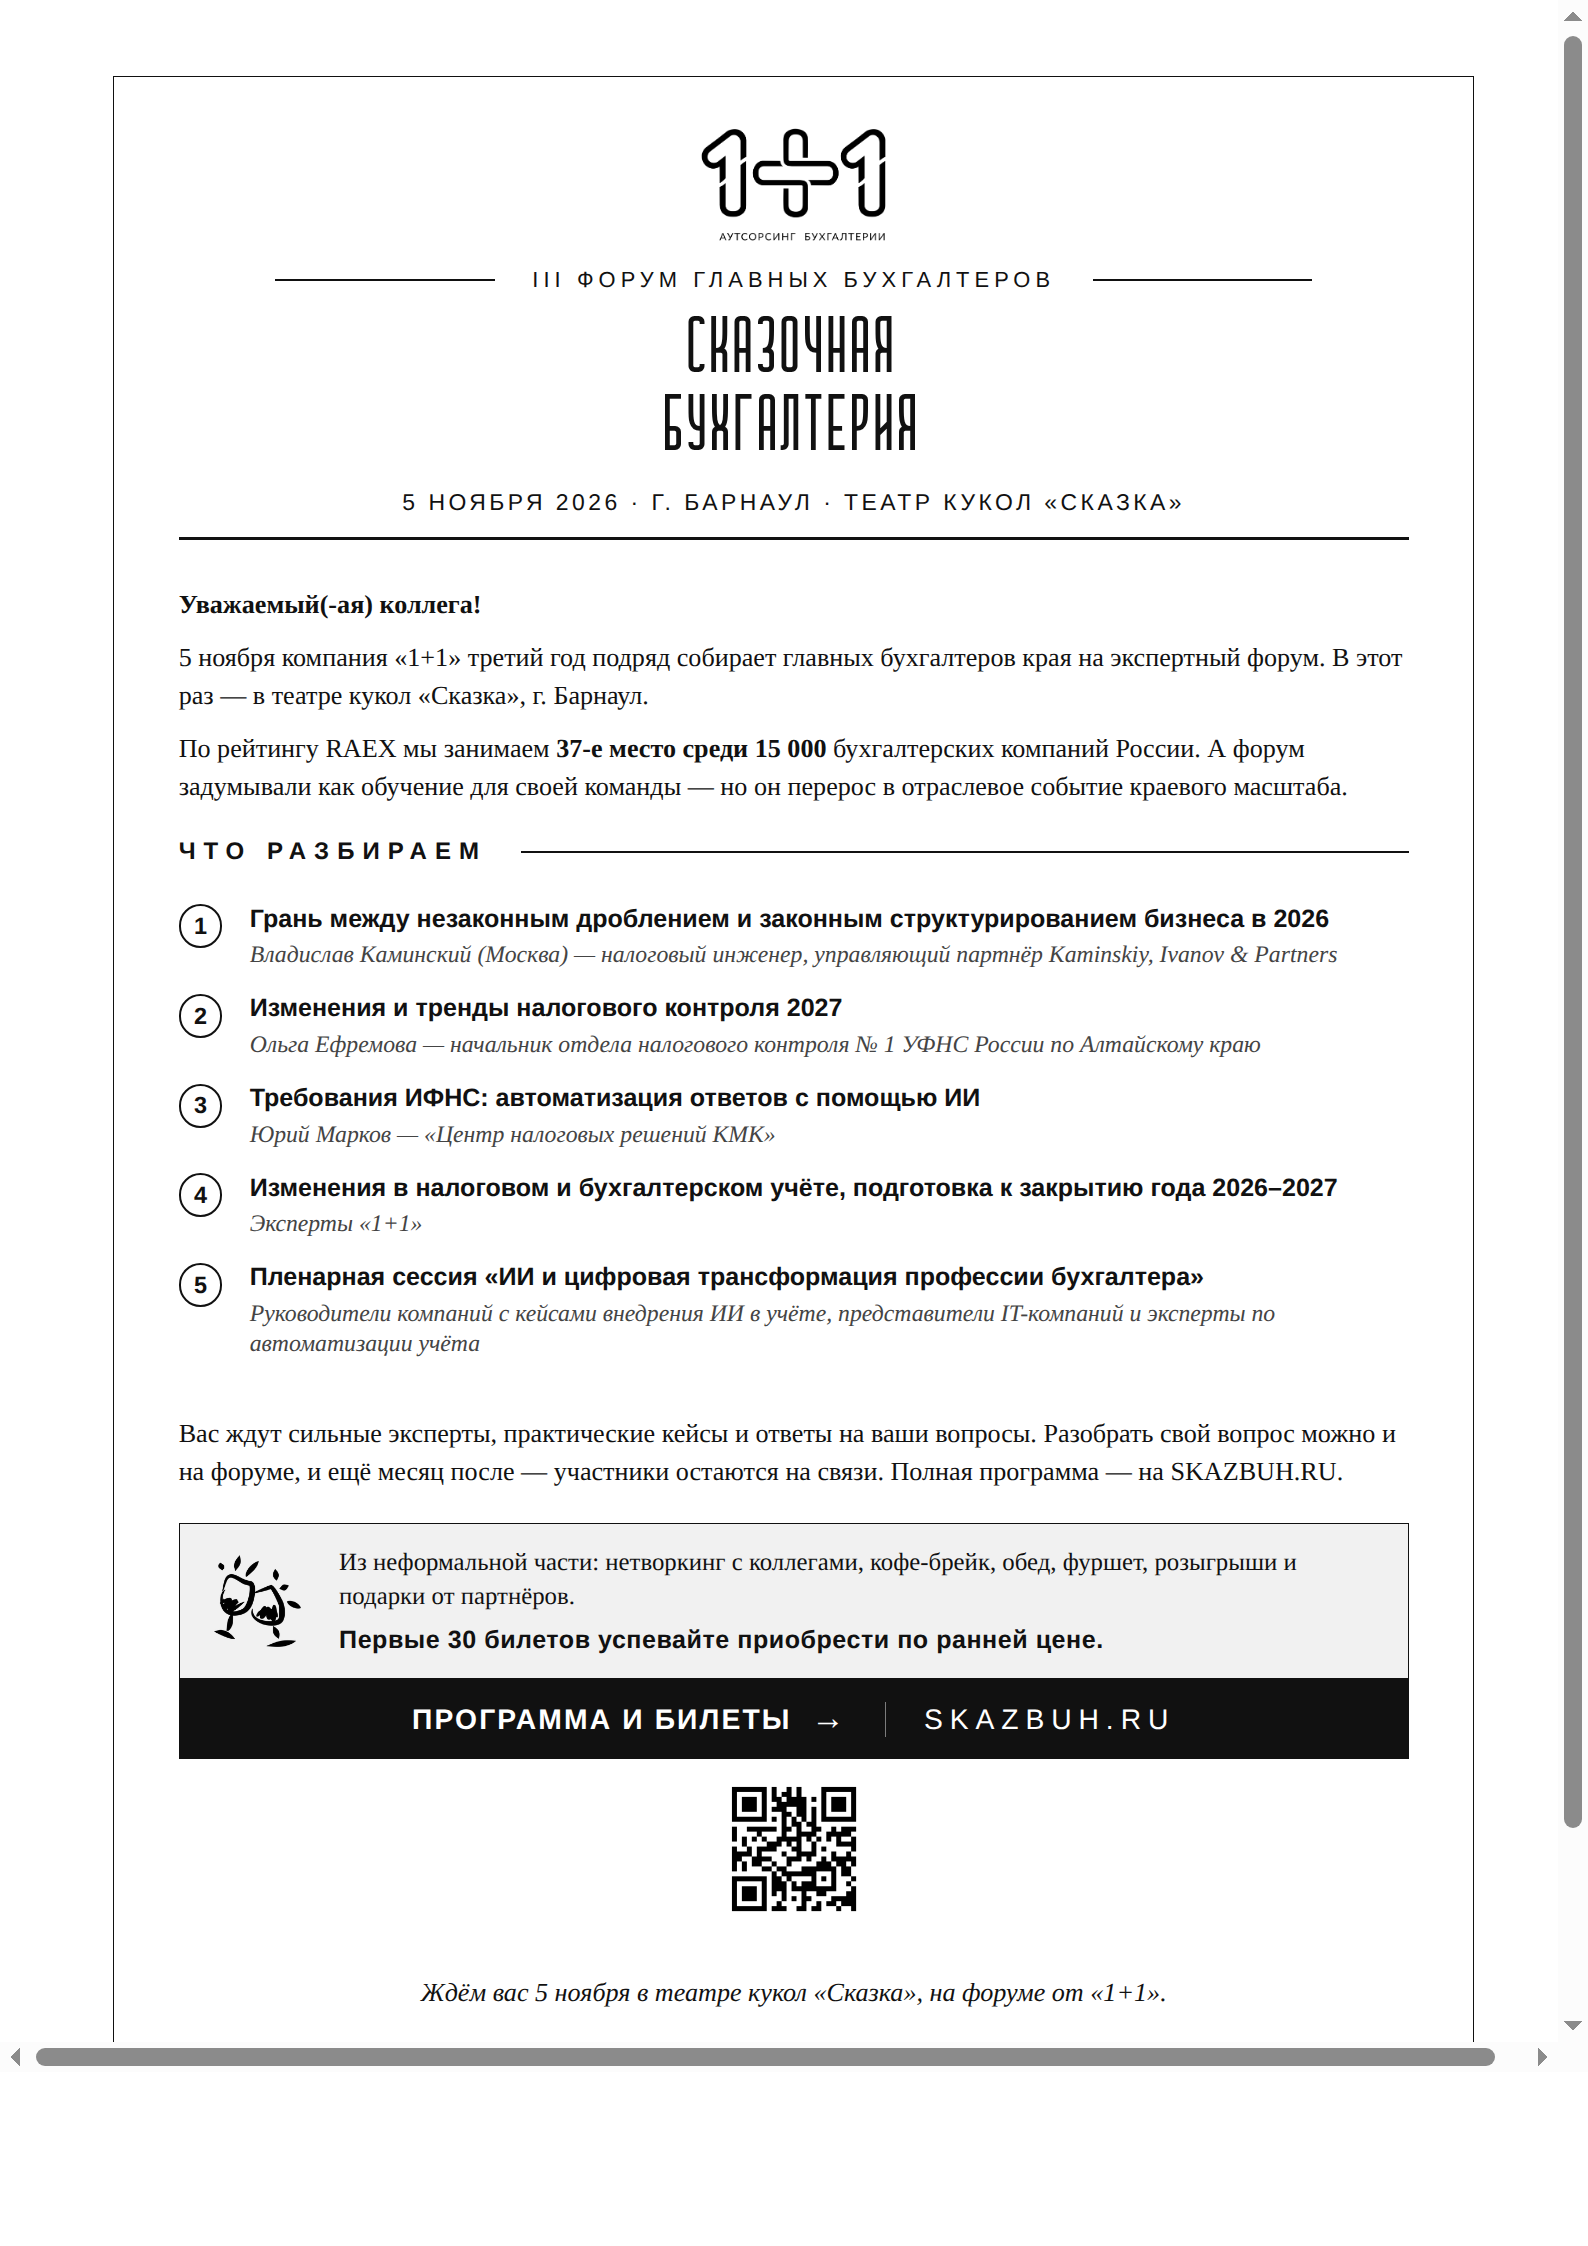
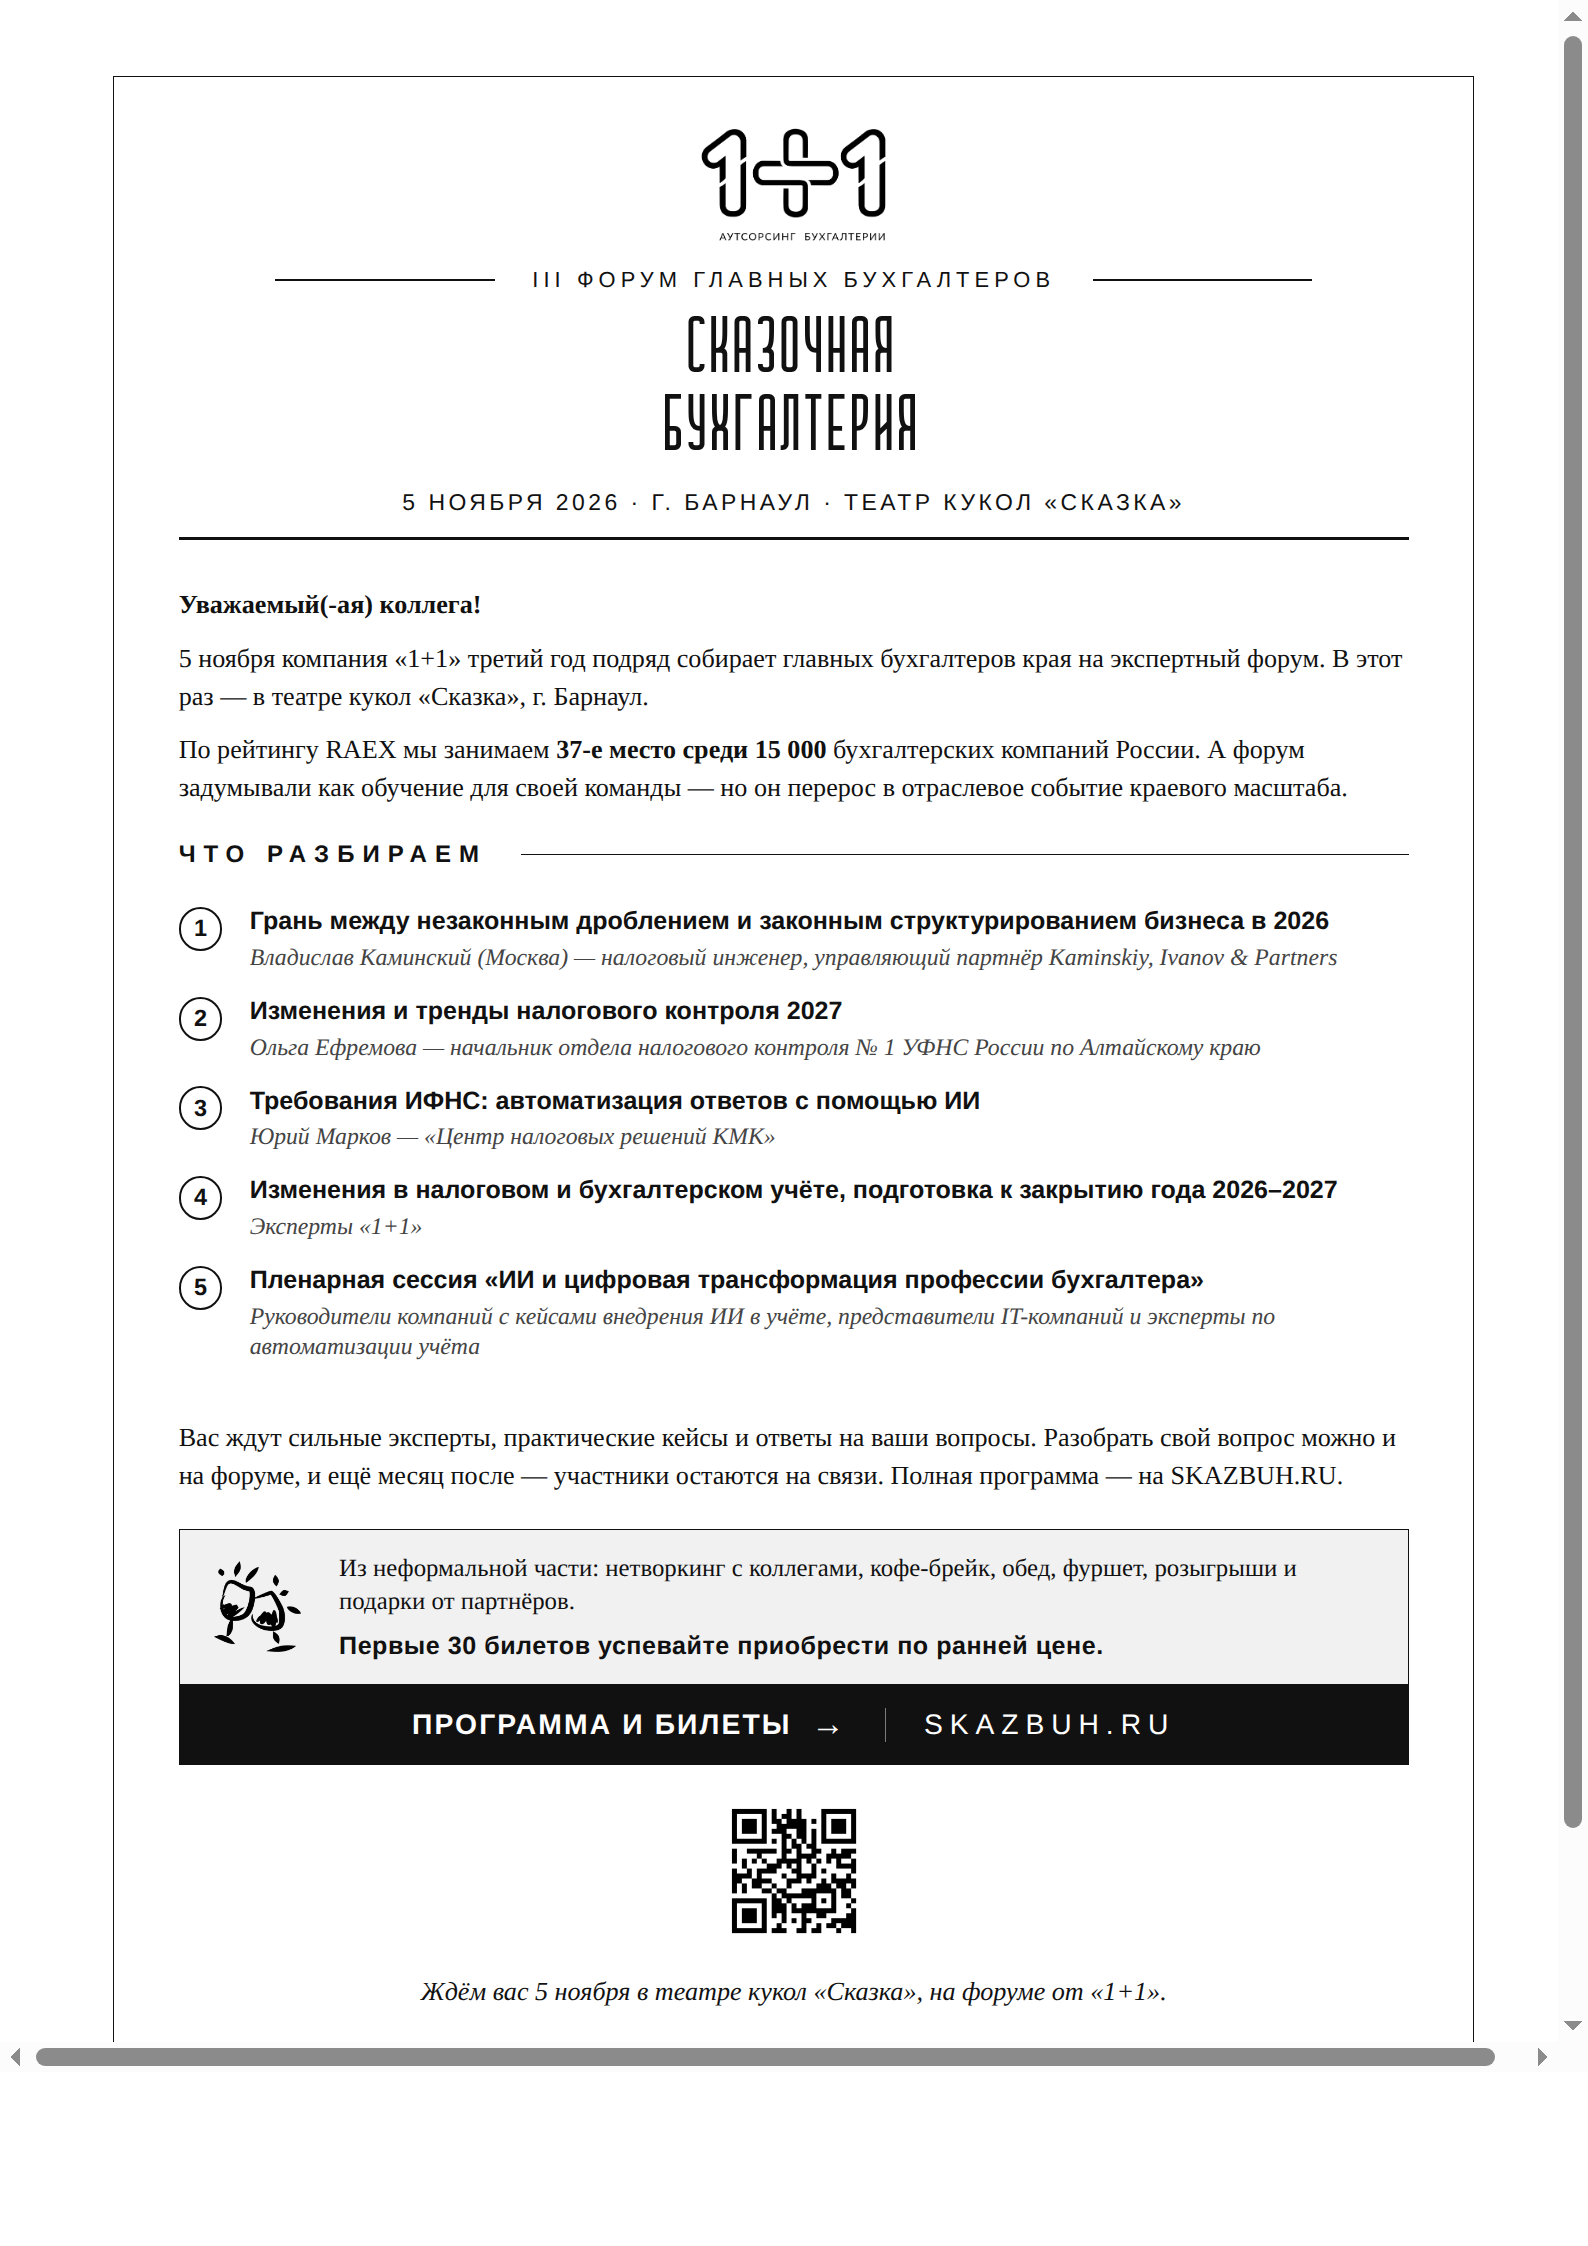
Center QR with symmetric spacing; final typographic pass on A4
- Place the QR with equal flexible space above and below (was hugging the
  CTA with a gap beneath); zero the closing line's top margin so the
  margins around the QR read truly symmetric.

Claude-Session: https://claude.ai/code/session_01DZEn5nyTAWE8zavBUm6caU

diff --git a/conference-skazbuh/print/letter-a4.html b/conference-skazbuh/print/letter-a4.html
@@ -68,10 +68,10 @@
   .cta .div{ width:0.6pt; height:4.6mm; background:rgba(255,255,255,.45); }
   .cta .b{ font-family:'Liberation Sans',Arial,sans-serif; font-size:10.6pt; letter-spacing:2.6pt; }
 
-  .qr{ display:flex; align-items:center; justify-content:center; margin-top:2.4mm; }
+  .qr{ display:flex; align-items:center; justify-content:center; margin:0; }
   .qr img{ display:block; width:19mm; height:19mm; border:0; }
 
-  .closing{ font-size:9.8pt; text-align:center; margin-top:2.6mm; font-style:italic; }
+  .closing{ font-size:9.8pt; text-align:center; margin-top:0; font-style:italic; }
 
   /* flexible breathing gaps — distribute leftover height evenly instead of
      pooling it into one hole above the footer */
@@ -165,11 +165,13 @@
         <span class="b">SKAZBUH.RU</span>
       </div>
 
+      <div class="gap" style="flex-grow:1"></div>
+
       <div class="qr">
         <img src="file:///home/user/design-system/conference-skazbuh/print/qr-skazbuh.png" alt="QR-код на сайт SKAZBUH.RU">
       </div>
 
-      <div class="gap" style="flex-grow:1.15"></div>
+      <div class="gap" style="flex-grow:1"></div>
 
       <div class="closing">Ждём вас 5&nbsp;ноября в театре кукол «Сказка», на форуме от «1+1».</div>
 
